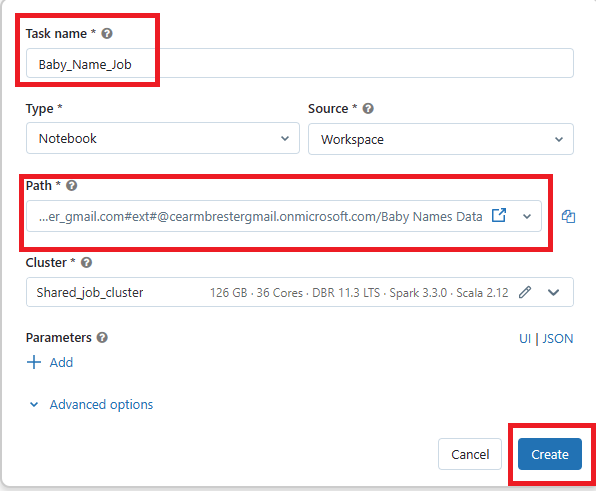
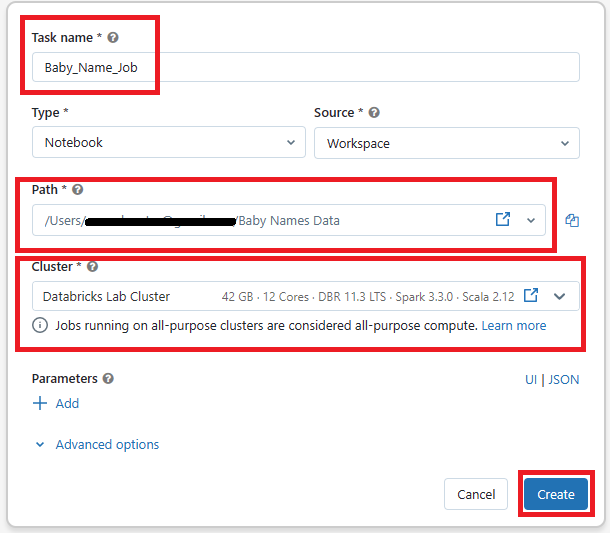
Updates to Module04

Changed region(s): [[0.0, 0.0, 1.0, 1.0], [0.0604, 0.7943, 0.2718, 0.8554]]

diff --git a/Modules/module04.md b/Modules/module04.md
@@ -27,11 +27,22 @@
     * Type: Notebook
     * Source: Workspace
     * Path: When you select the path location, go to where you just imported that .dbc file.
-    * Cluster: Shared_job_cluster
+    * Cluster: Databricks Lab Cluster (the cluster we created in Module 01)
 
 Then select Create.
 
 ![Task Details](../Images/Module04/tasksetup.png)
 
 4. In the top right corner, Select Run Now.
-5. 
+5. Toggle to the Run view of the job. It should only take about 10 seconds for a Successful Run to appear.
+
+    ![Successful Run](../Images/Module04/successfulrun.png)
+
+6. Select the successful runs log time to view the output. It will show you the code run in the cells and the output of the queries.
+
+    ![Output of Successful Run](../Images/Module04/outputtask.png)
+
+**Note** If you ran this code in the notebook, you will have the same output.
+
+## 3. Run with Different Parameters
+1. 
